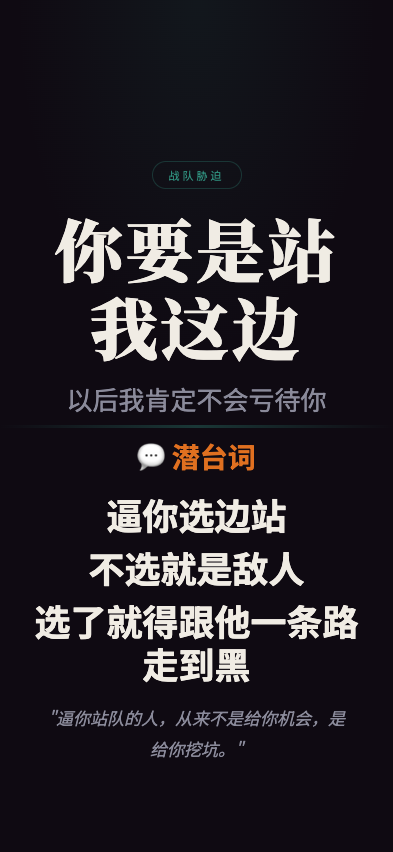
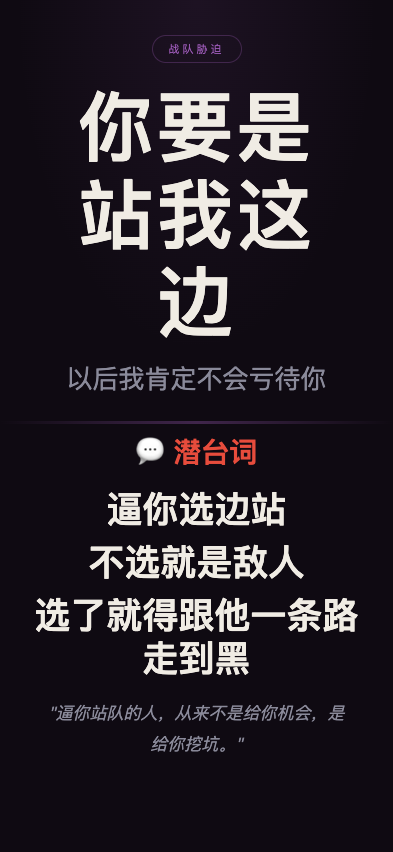
feat: 职场生存法则 screenshot - xingchengyewubihuan

Changed region(s): [[0.0916, 0.0915, 0.916, 0.885], [0.4275, 0.0305, 0.5802, 0.061], [0.8244, 0.8239, 0.8855, 0.8545]]

diff --git a/wuliao-tools/tools/biz-speak/scenes/niyaoshizhanwozhebian.html b/wuliao-tools/tools/biz-speak/scenes/niyaoshizhanwozhebian.html
@@ -10,8 +10,8 @@
     --bg: #0f0a12;
     --text: #f0ece4;
     --text-dim: #8a8a9a;
-    --gold: #2e8b7a;
-    --red: #e07020;
+    --gold: #9b59b6;
+    --red: #e74c3c;
   }
   * { margin:0; padding:0; box-sizing:border-box; }
   html, body { width:100%; height:100%; overflow:hidden; }
@@ -24,15 +24,15 @@
   }
   body::before {
     content:''; position:absolute; top:0; left:0; right:0; height:45%;
-    background:radial-gradient(ellipse at 50% 0%, rgba(46,139,122,0.1) 0%, transparent 65%);
+    background:radial-gradient(ellipse at 50% 0%, rgba(155,89,182,0.1) 0%, transparent 65%);
     pointer-events:none; z-index:0;
   }
-  .top { flex:1; display:flex; flex-direction:column; align-items:center; justify-content:flex-end; padding:4px 28px 8px; position:relative; z-index:1; }
-  .tag { font-size:11px; letter-spacing:3px; color:var(--gold); border:1px solid rgba(46,139,122,0.3); padding:5px 16px; border-radius:50px; margin-bottom:20px; }
-  .main-title { font-family:'Noto Serif SC'; font-size:68px; font-weight:900; text-align:center; line-height:1.15; letter-spacing:3px; min-width:0; overflow-wrap:break-word; max-width:92%; }
+  .top { flex:1; display:flex; flex-direction:column; align-items:center; justify-content:flex-end; padding:16px 28px 24px; position:relative; z-index:1; }
+  .tag { font-size:11px; letter-spacing:3px; color:var(--gold); border:1px solid rgba(155,89,182,0.3); padding:5px 16px; border-radius:50px; margin-bottom:20px; }
+  .main-title { font-family:'Noto Serif SC'; font-size:76px; font-weight:900; text-align:center; line-height:1.15; letter-spacing:3px; max-width:92%; overflow-wrap:break-word; }
   .sub-title { font-size:26px; color:var(--text-dim); text-align:center; margin-top:14px; }
   .divider { width:100%; height:3px; background:linear-gradient(90deg,transparent,var(--gold),transparent); opacity:0.35; flex-shrink:0; position:relative; z-index:1; }
-  .bottom { flex:1; display:flex; flex-direction:column; align-items:center; justify-content:flex-start; padding:8px 28px 4px; position:relative; z-index:1; }
+  .bottom { flex:1; display:flex; flex-direction:column; align-items:center; justify-content:flex-start; padding:8px 28px 40px; position:relative; z-index:1; }
   .truth-label { font-size:28px; font-weight:700; color:var(--red); display:flex; align-items:center; gap:10px; margin-bottom:16px; }
   .truth-lines { display:flex; flex-direction:column; align-items:center; gap:10px; }
   .truth-line { font-size:36px; font-weight:700; color:var(--text); text-align:center; line-height:1.2; }
